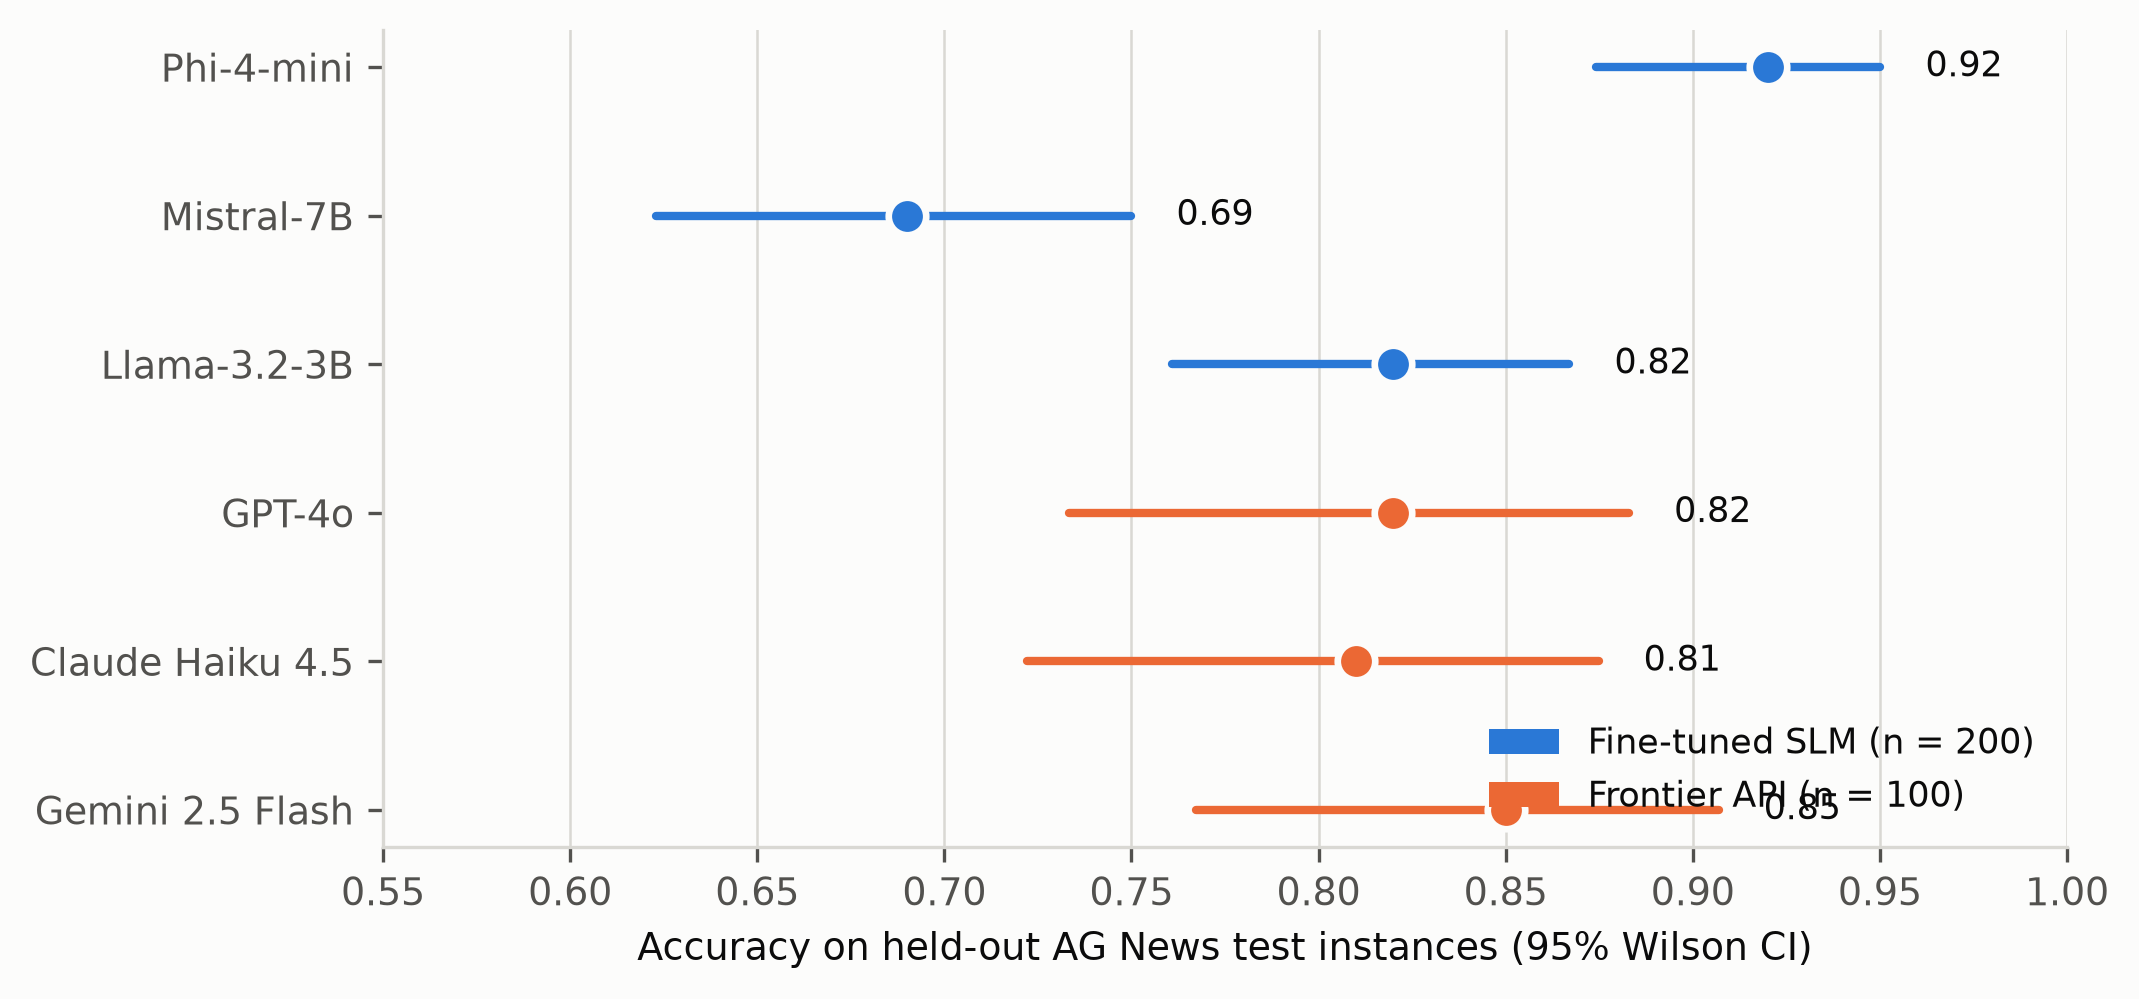
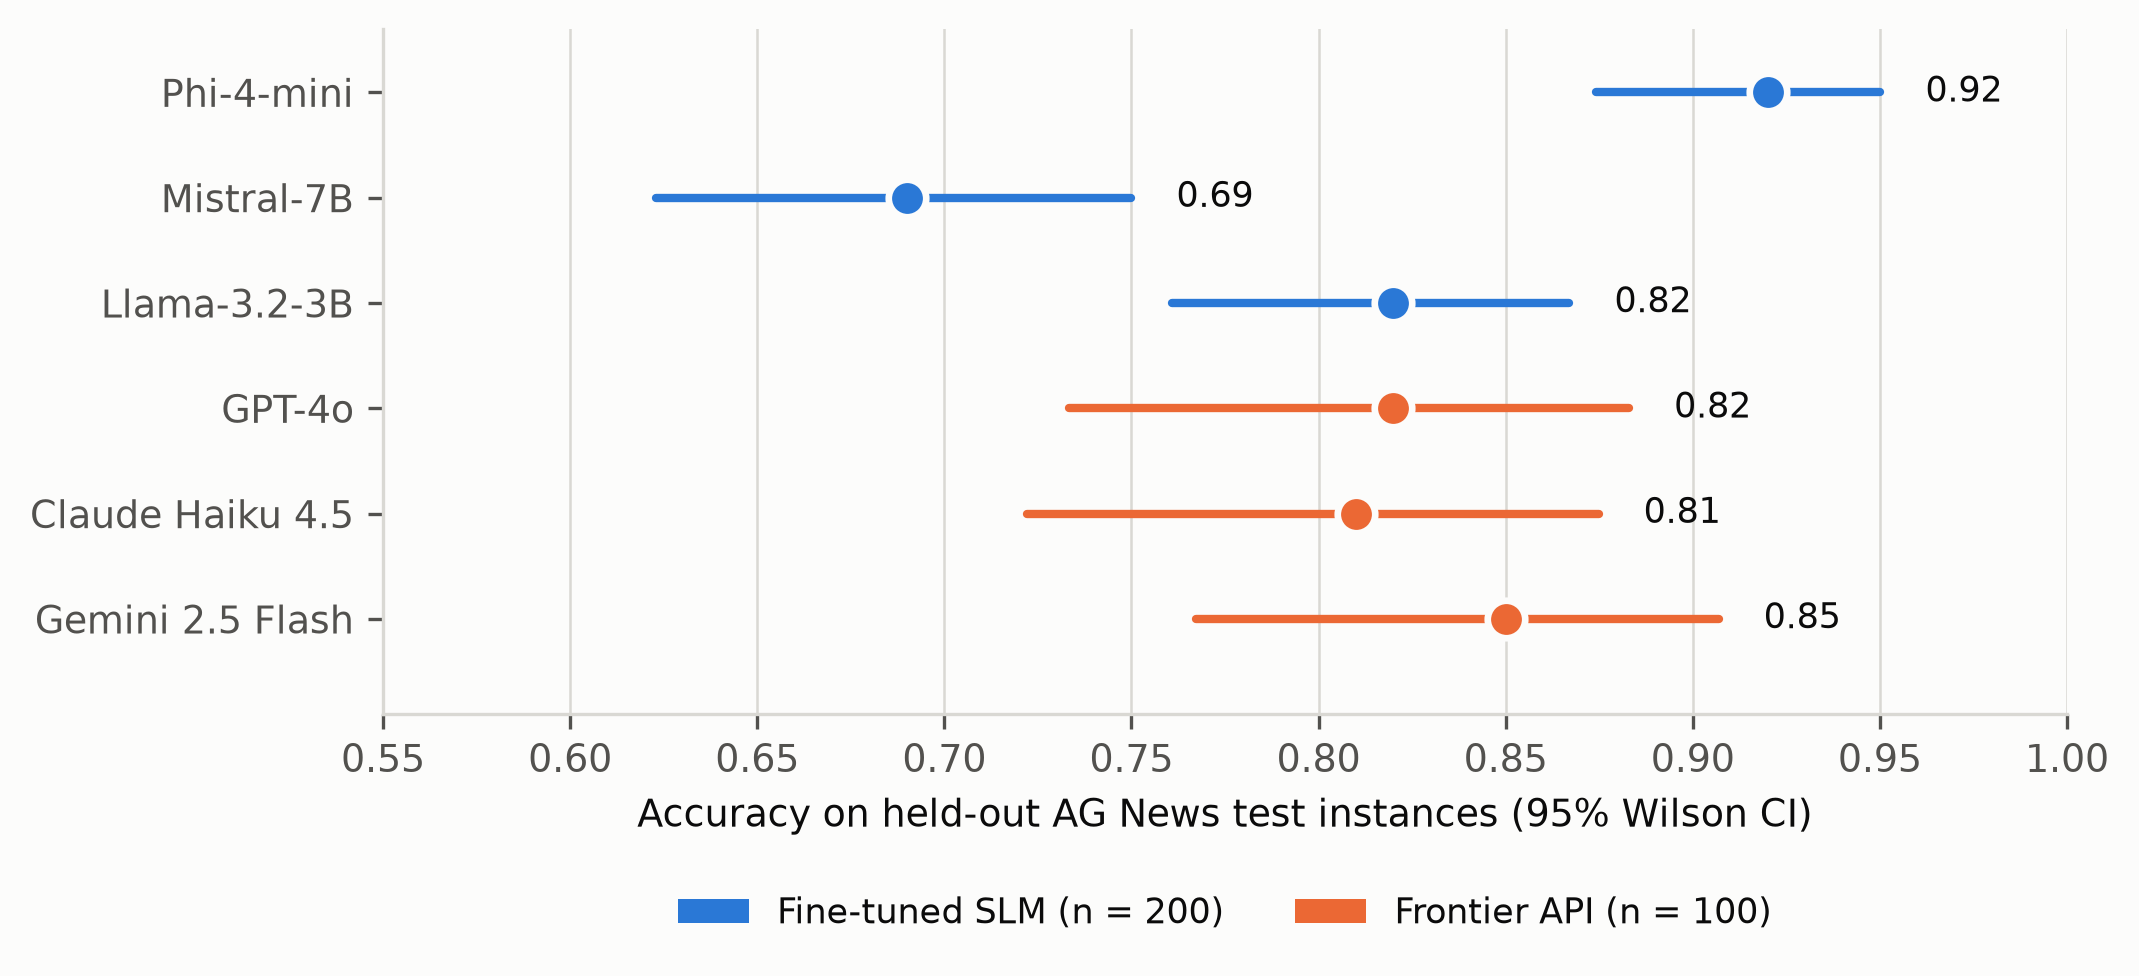
Correct chapter 4 figures and record the thesis↔repository audit (#29)
* figures: correct four defects found in the submitted chapter 4

- Fig 4.1: legend still said the financial-sentiment cells were withdrawn by
  the validity audit. They were re-measured on a common seeded split and are
  reported as valid (§4.2.4); only the NER cells remain outstanding. The
  INVALID set was already NER-only, so the plot and its own legend disagreed.
- Fig 4.2: the legend box sat on top of the Gemini 2.5 Flash row and hid its
  value label. Moved below the axes.
- Fig 4.4: on classification the API rows come from provider-billed token
  counts, so lo == hi and the band degenerated to a zero-length line, which
  draws nothing. Those rows now render as point markers.
- Fig 4.6: the annotation claimed that at u = 0.5 the self-hosted line runs
  inside the API band and the comparison "stops being decidable". With
  provider-billed tokens there is no band, and 0.359 < 0.551 per 1k requests,
  so self-hosting still wins past ~3,200 requests. The figure now reports the
  breakeven each utilisation implies and labels the API line for what it is.

Claude-Session: https://claude.ai/code/session_015YPAisosNaN54Zbbyye1fW

* docs: log the thesis corrections and the evidence behind each one

Auditing the thesis prose against this repository turned up five substantive
mismatches between what the text claims and what the pipeline ran — most
importantly that code generation fine-tunes on MBPP (not HumanEval, which has
[…]

diff --git a/results/make_figures.py b/results/make_figures.py
@@ -160,7 +160,7 @@ def fig_matrix(df):
         Patch(facecolor=SLM_C, label="Fine-tuned SLM (on-premise)"),
         Patch(facecolor=API_C, label="Frontier API"),
         Patch(facecolor=INVALID_C, hatch="///",
-              label="Withdrawn by the validity audit — non-comparable\ninstrument (NER) or sample (financial sentiment)"),
+              label="Withdrawn by the validity audit — non-comparable\ninstrument (named entity recognition)"),
     ], loc="lower center", ncol=3, frameon=False, bbox_to_anchor=(0.5, -0.16),
         fontsize=8.5)
     fig.tight_layout()
@@ -184,9 +184,11 @@ def fig_classification_ci(df):
     ax.set_xlabel("Accuracy on held-out AG News test instances (95% Wilson CI)")
     ax.set_xlim(0.55, 1.0)
     ax.grid(axis="y", visible=False)
+    ax.set_ylim(-0.9, len(ORDER) - 0.4)
     ax.legend(handles=[Patch(facecolor=SLM_C, label="Fine-tuned SLM (n = 200)"),
                        Patch(facecolor=API_C, label="Frontier API (n = 100)")],
-              loc="lower right", frameon=False, fontsize=8.5)
+              loc="upper center", bbox_to_anchor=(0.5, -0.22), ncol=2,
+              frameon=False, fontsize=8.5)
     fig.tight_layout()
     save(fig, "fig4_2_classification_ci")
 
@@ -234,9 +236,18 @@ def fig_cost_per_request():
             labels.append(SHORT[api]); los.append(s.min()); his.append(s.max())
         ypos = np.arange(len(labels))[::-1]
         for y, lo, hi in zip(ypos, los, his):
-            ax.plot([lo, hi], [y, y], color=API_C, lw=6, solid_capstyle="butt", zorder=3)
-            ax.text(hi * 1.08, y, f"{lo:.3f}–{hi:.3f}" if hi - lo > 1e-4 else f"{hi:.3f}",
-                    va="center", fontsize=8, color=INK)
+            if hi - lo > 1e-4:
+                # estimation band: a bar spanning both bounds
+                ax.plot([lo, hi], [y, y], color=API_C, lw=6,
+                        solid_capstyle="butt", zorder=3)
+                label = f"{lo:.3f}–{hi:.3f}"
+            else:
+                # provider-billed token counts give one exact price, not a
+                # band; a zero-length line draws nothing, so mark the point.
+                ax.plot(hi, y, "o", ms=8, color=API_C, mec=SURFACE, mew=1.4,
+                        zorder=3)
+                label = f"{hi:.3f}"
+            ax.text(hi * 1.10, y, label, va="center", fontsize=8, color=INK)
         ax.axvline(c_slm, color=SLM_C, lw=2, zorder=4)
         ax.text(c_slm, len(labels) - 0.35, f"  Phi-4-mini {c_slm:.2f}",
                 color=SLM_C, fontsize=8.5, va="bottom")
@@ -301,8 +312,8 @@ def fig_breakeven():
                     fontsize=8.5, color=INK,
                     arrowprops=dict(arrowstyle="-", color=INK2, lw=0.8))
     ax.axhline(c_ft, color=INK2, lw=0.9, ls=":", zorder=2)
-    ax.text(150, c_ft + 0.13, f"one-off adaptation cost ${c_ft:.2f}",
-            fontsize=8.5, color=INK2, va="bottom")
+    ax.text(x_max * 0.985, c_ft - 0.06, f"one-off adaptation cost ${c_ft:.2f}",
+            fontsize=8.5, color=INK2, va="top", ha="right")
     ax.set_xlabel("Cumulative requests served")
     ax.set_ylabel("Cumulative cost (USD)")
     ax.set_xlim(0, x_max)
@@ -327,22 +338,34 @@ def fig_utilisation():
     reqs = np.linspace(0, 30000, 400)
 
     fig, ax = plt.subplots(figsize=(7.6, 4.2))
-    ax.fill_between(reqs, lo * reqs, hi * reqs, color=API_C, alpha=0.22, zorder=2,
-                    label="GPT-4o API (tokenizer-estimate band)")
+    # With provider-billed token counts the API price is a single exact line.
+    # Label it for what it is rather than as an estimate band, and keep the
+    # fill only so the line stays visible at this aspect ratio.
+    banded = (hi - lo) / max(hi, 1e-12) > 0.02
+    api_label = ("GPT-4o API (tokeniser-estimate band)" if banded
+                 else "GPT-4o API (provider-billed tokens)")
+    ax.fill_between(reqs, lo * reqs, hi * reqs, color=API_C, alpha=0.22, zorder=2)
+    ax.plot(reqs, ((lo + hi) / 2) * reqs, color=API_C, lw=2.0, zorder=3,
+            label=api_label)
+    c_api = (lo + hi) / 2
+    notes = []
     for u, ls, lab in [(1.0, "-", "u = 1.00 (fully utilised)"),
                        (0.5, "--", "u = 0.50"),
                        (0.25, ":", "u = 0.25 (idle-heavy)")]:
-        ax.plot(reqs, c_ft + (base / u) * reqs, color=SLM_C, lw=2.0, ls=ls,
+        c_u = base / u
+        ax.plot(reqs, c_ft + c_u * reqs, color=SLM_C, lw=2.0, ls=ls,
                 label=f"Self-hosted, {lab}", zorder=4)
-    ax.annotate("at u = 0.5 the self-hosted line runs inside the API band —\n"
-                "the comparison stops being decidable",
-                xy=(21000, c_ft + (base / 0.5) * 21000),
-                xytext=(9200, 9.4), fontsize=8.5, color=INK,
-                arrowprops=dict(arrowstyle="-", color=INK2, lw=0.8))
+        # State the breakeven each utilisation actually implies, rather than
+        # asserting a verdict the plotted lines do not support.
+        notes.append(f"u = {u:.2f}: " + (f"breakeven ≈ {c_ft / (c_api - c_u):,.0f} requests"
+                                         if c_u < c_api else "API cheaper at every volume"))
+    ax.annotate("\n".join(notes), xy=(0.985, 0.035), xycoords="axes fraction",
+                ha="right", va="bottom", fontsize=8.5, color=INK,
+                bbox=dict(boxstyle="round,pad=0.45", fc=SURFACE, ec=GRID, lw=0.8))
     ax.set_xlabel("Cumulative requests served")
     ax.set_ylabel("Cumulative cost (USD)")
     ax.set_xlim(0, 30000); ax.set_ylim(0, 12)
-    ax.legend(loc="upper left", frameon=False, fontsize=8.5)
+    ax.legend(loc="upper left", frameon=False, fontsize=8.5, ncol=1)
     fig.tight_layout()
     save(fig, "fig4_6_utilisation_sensitivity")
 

diff --git a/docs/thesis_corrections.md b/docs/thesis_corrections.md
@@ -1,0 +1,67 @@
+# Thesis correction log — v19 → v20
+
+Every change below was made against evidence in this repository (the MLflow run
+history in `mlflow.db`, the released CSVs under `results/`, and the pipeline
+source), not against a reading of the prose alone. It exists so that any claim
+in the thesis can be traced to the artefact that supports it.
+
+## A. Defects found by auditing the thesis against this repository
+
+| # | Finding | Evidence | Resolution |
+|---|---|---|---|
+| A1 | The code-generation adapters are fine-tuned on **MBPP**, not HumanEval; HumanEval is evaluation-only. The thesis never said so — Table 3.2 named HumanEval as the dataset. | `src/data/dataset_loader.py` module docstring and `TASK_CONFIGS["code_generation"]`; MLflow records 1,122 samples ÷ 3 epochs = 374 training examples, exactly MBPP's train split. | Disclosed in §3.2.3; Table 3.2 now names both corpora. The code column is labelled a cross-corpus transfer result. |
+| A2 | The two arms saw **different configurations of Financial PhraseBank**. The API baselines were scored on AllAgree; the fine-tuned arm was trained and scored on 50Agree. | `scripts/prepare_financial_data.py` takes `Sentences_50Agree.txt`; MLflow records 11,628 ÷ 3 = 3,876 training examples = 80 % of 4,845 (50Agree), not of 2,264 (AllAgree). All 100 API baseline sentences in `logs/financial_baseline_v3_seededsplit.csv` match AllAgree. | Disclosed in §3.2.3, qualified in §3.5.1, flagged as an open comparability defect in §4.2.4 with the direction of its bias stated. **Not silently corrected** — it needs a re-run. |
+| A3 | §3.4.2 stated 5,000 training examples per task. True for three tasks only. | MLflow: 5,000 (classification, NER, summarisation), 3,876 (financial sentiment), 374 (code generation). | §3.4.2 now reports the actual per-task counts. |
+| A4 | §5.2 claimed financial sentiment was "the only task with N < 5,000" and used that to explain its failure via Condition 2. | Code generation trained on 374 examples — fewer. | §5.2 rewritten: the supervision account is withdrawn for this task, which is now marked as the one cell the proposed mechanism cannot account for. |
+| A5 | Figure 4.6 asserted that at u = 0.5 the comparison "stops being decidable". | 0.359 vs 0.551 USD / 1k requests; breakeven ≈ 3,202 requests. `results/make_figures.py` itself notes the band collapses under provider-billed tokens. | Figure and caption now report the breakeven each utilisation implies. |
+| A6 | Figure 4.1's legend still described financial sentiment as withdrawn by the validity audit. | `INVALID` in `make_figures.py` is NER-only; §4.2.4 reports the task as re-measured and valid. | Legend corrected. |
+| A7 | Figure 4.4 drew nothing for the classification API rows. | Billed rows give `lo == hi`; a zero-length line renders as nothing. | Those rows now render as point markers. |
+| A8 | Figure 4.2's legend box covered the Gemini 2.5 Flash row. | — | Legend moved below the axes. |
+
+## B. Document defects corrected
+
+- `(atıf gerekli)` — an untranslated placeholder in §3.4.2 — replaced with a citation to Dettmers et al. (2023).
+- Equations (3.1)–(3.5) were absent from §3.5.3 and §3.5.5; the text introduced each with "is given by" and then showed nothing. Inserted and numbered; §4.6's cross-reference repointed from (3.3) to (3.5).
+- Four superscript footnote markers had no footnotes behind them. Real Word footnotes inserted.
+- Holm (1979), cited in §3.6, was missing from the reference list.
+- APA 7: six entries used the 21+-author ellipsis with fewer than 20 authors; all authors now listed. Canonical DOIs added to nine arXiv preprints.
+- Figures 4.1–4.4 were never referenced from the running text.
+- Table 2.1 was missing from the List of Tables.
+- Appendix C carried fine-tuned prompts for C.1–C.2 only; C.3–C.5 added from `dataset_loader.py`. The Sci/Tech vs Technology label-name difference between the arms is now explained.
+- Abstract: the 1,700-request breakeven now carries its utilisation and labour assumptions.
+
+## C. Formatting normalised
+
+- `Normal (Web)` (49 % of body paragraphs, a paste-from-browser artefact) folded into `Normal`.
+- Body: Times New Roman 12 pt, black, justified, 1.5 line spacing throughout.
+- Captions: 10 pt, uniform (previously mixed 9 pt / 10 pt, and mixed within a single caption).
+- Table 2.1 was set entirely in bright red (`EE0000`); all nine tables now share one header and zebra style.
+- Document default font changed from Calibri to Times New Roman.
+- The five `TO BE COMPLETED BEFORE SUBMISSION` notes are deliberately left in **red bold** so they cannot be submitted unnoticed.
+
+## D. Second round — artefacts and practitioner validation
+
+- **§3.7.2 / Appendix F**: the decision tool is deployed at
+  <https://slm-benchmark-iqwxhymearqtuw7rr6mdmt.streamlit.app/> from the
+  `streamlit-deploy` branch. The thesis previously recorded the deployment as
+  not realised; exposé Deliverable 1 is now met.
+- **Appendix A.1**: five technical prompts added alongside the language-editing
+  prompt, covering the NER decode fix, the per-request cost script, the figure
+  generation, the MLflow readonly-database bug and the stale-checkpoint fix.
+- **§3.7.3 / Appendix E**: the practitioner sessions were with three
+  equipment-supply companies in **Azerbaijan**, not the Hamburg innovation
+  network the exposé named and the thesis text claimed. Both departures from
+  the exposé (five sessions → three, Hamburg → Azerbaijan) are now recorded.
+- **Appendix E.1**: the protocol as written said the framework was run during
+  each session and its recommendation shown to the participant. It was not —
+  the source notes record questions 7–9 as unanswered "because the framework
+  has not yet been run with real inputs". The protocol now describes what was
+  administered, and states that two of the four framework inputs (volume in
+  tokens, minimum accuracy) were assumed rather than elicited.
+- **Appendix E.2**: filled from the session notes. The framework was run on the
+  three real use cases via `src/decision_framework.py`; it recommends Gemini
+  2.5 Flash (API) in all three, unchanged at both ends of every stated volume
+  range. Agreement is partial in all three: the deployment mode matches, the
+  provider does not.
+- **§5.4, §6.1 (SQ5), §6.2**: the validation outcome is now reported. It was
+  previously described as having been carried out, with no result given.

diff --git a/docs/RELEASE.md b/docs/RELEASE.md
@@ -21,7 +21,13 @@ Then paste into **Appendix F**:
 > the MIT licence. The state corresponding to this submission is tagged
 > `v1.0.0-thesis`.
 
-## 2. Streamlit Community Cloud (about 15 minutes)
+## 2. Streamlit Community Cloud — DONE
+
+Deployed at https://slm-benchmark-iqwxhymearqtuw7rr6mdmt.streamlit.app/ from the
+`streamlit-deploy` branch. §3.7.2 and Appendix F of the thesis now carry the URL.
+The steps below are kept for redeployment.
+
+### Original steps (about 15 minutes)
 
 **The root `requirements.txt` will not work for this.** It carries the full
 training stack — torch, transformers, bitsandbytes, mlflow — while `app.py` needs
@@ -46,10 +52,8 @@ git checkout streamlit-deploy -- requirements.txt
 git commit -am "sync with main, keep slim requirements" && git push
 ```
 
-Then replace the sentence in **§3.7.2** of the thesis:
-
-> ~~Public deployment of the application is pending at the time of writing.~~
-> The application is deployed at <your Streamlit URL>.
+Done: §3.7.2 now reads "The application is publicly deployed on Streamlit Community Cloud
+at https://slm-benchmark-iqwxhymearqtuw7rr6mdmt.streamlit.app/".
 
 ## 3. Hugging Face Hub (about 20 minutes)
 
